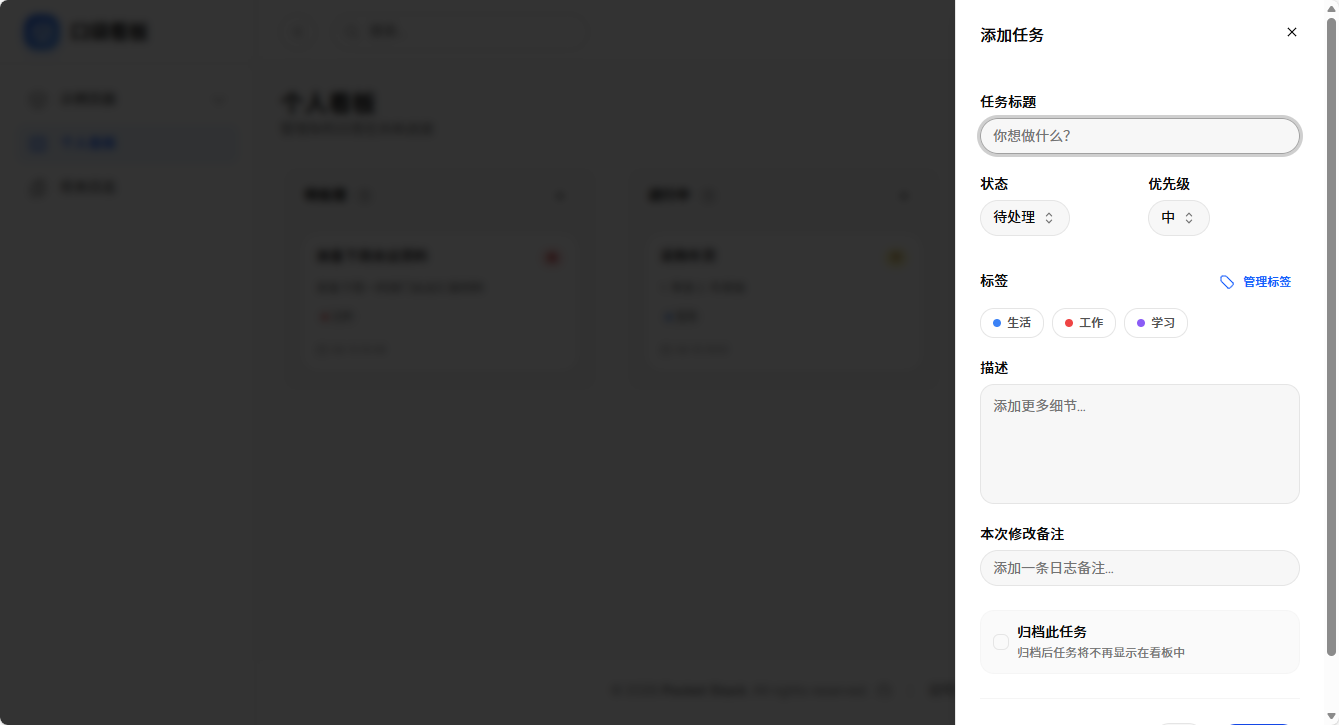
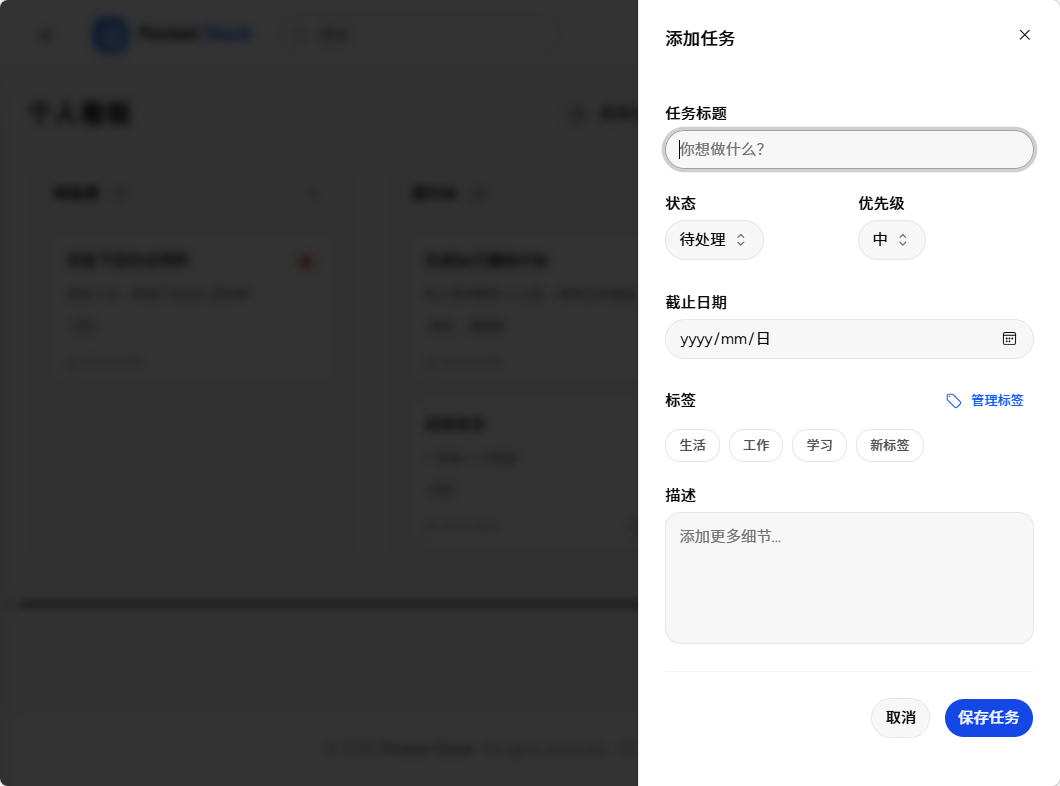
docs(demos): 更新看板文档并添加相关截图

diff --git a/docs/.vitepress/config.ts b/docs/.vitepress/config.ts
@@ -16,6 +16,10 @@ export default {
     search: {
       provider: 'local'
     },
+    outline: {
+      level: [2, 4],
+      label: '目录'
+    },
     sidebar: [
       {
         text: '概要',

diff --git a/docs/demos/kanban.md b/docs/demos/kanban.md
@@ -2,7 +2,9 @@
 
 口袋看板是基于 `Pocket Stack` 通过 `Vibe Coding` 的方式开发的一款个人任务管理看板，提供个人任务管理和进度追踪功能。
 
-## 1. 访问看板
+## 看板页面
+
+### 访问看板
 
 访问 `/kanban` 路径，打开口袋看板页面，默认展示个人看板视图。
 
@@ -10,37 +12,53 @@
 
 ![访问看板](screenshots/kanban.png)
 
----
+### 添加任务
 
-## 2. 添加任务
-点击右上角的【添加任务】按钮，可以创建新的任务卡片。
+点击右上角的【添加任务】按钮，可以创建新的任务卡片。任务属性包括任务标题、状态、优先级、截止日期、标签、描述等。
 
 ![添加任务](screenshots/kanban_create_task.png)
 
----
+### 筛选任务
 
-## 3. 筛选任务
-点击【筛选】按钮，可以按标签或关键词筛选任务。
+点击【筛选】按钮，可以按关键词、优先级、标签、归档状态等筛选任务。
 
 ![筛选任务](screenshots/kanban_task_filter.png)
 
----
+### 标签管理
 
-## 4. 标签管理
 点击【标签管理】按钮，可以添加或编辑任务标签。
 
 ![标签管理](screenshots/kanban_tag.png)
 
----
+## 任务页面
 
-## 5. 任务日志
+### 任务详情
 
-任务日志展示任务的状态变更历史，包括创建、状态变更、备注等操作。
+点击任务卡片可以查看任务信息，管理任务的待办事项，添加备注，以及浏览任务动态。
+
+- 任务信息：包括任务标题、状态、描述、标签、优先级、截止日期等。
+- 待办事项：对该任务下的待办事项进行添加、删除、修改、排序等操作。
+- 备注：记录在任务执行过程中的任何信息。
+- 任务动态：展示任务的状态变更历史，包括创建、状态变更、备注信息、待办事项变更等操作。
+
+![任务详情](screenshots/kanban_task_detail.png)
+
+### 待办事项智能生成
+
+基于任务标题、描述等上下文，根据用户要求，自动生成如待办事项列表。
+
+![待办事项](screenshots/kanban_task_todo.png)
+
+## 日志页面
+
+### 任务日志
+
+任务日志展示任务的状态变更历史，包括创建、状态变更、备注等操作。可以通过关键词、日期、标签对任务日志进行筛选。
 
 ![任务日志](screenshots/kanban_task_log.png)
 
-## 6. 智能生成
+### 任务日志智能生成
 
-智能生成功能基于任务日志上下文，根据用户要求生成如总结、计划等内容。
+基于当前筛选条件结果的任务日志上下文，根据用户要求生成如总结、计划等内容。
 
 ![智能生成](screenshots/kanban_task_generate.png)
